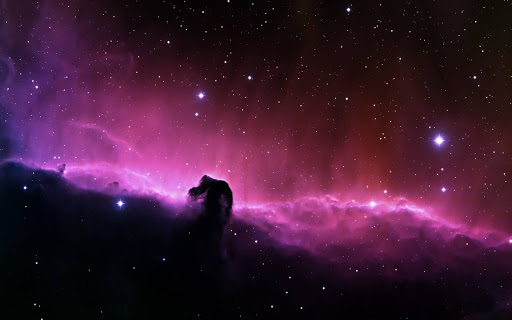
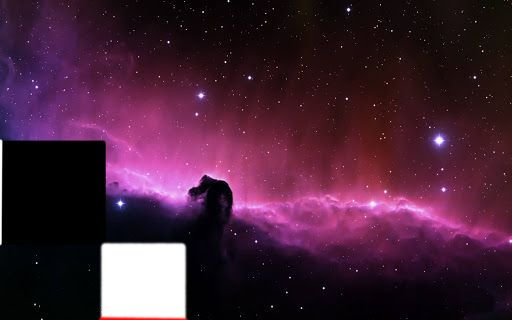
Обновил границы)

Changed region(s): [[0.0, 0.4375, 0.2188, 0.75], [0.1875, 0.75, 0.375, 1.0]]

diff --git a/main_file.py b/main_file.py
@@ -51,10 +51,10 @@ LAnim =[pygame.image.load('sp_humans/WalkL0000.png').convert_alpha(), pygame.ima
     pygame.image.load('sp_humans/WalkL0006.png').convert_alpha(), pygame.image.load('sp_humans/WalkL0007.png').convert_alpha()]
 
 
-backgr = Window_Dialog.GameSurface(1000, 700, 'backfon.jpg')
+backgr = Window_Dialog.GameSurface(2000, 2600, 'backfon.jpg')
 
 #Объект класса MainCharacter. Игровой персонаж
-Persona = GameCharacterModule.MainCharacter('ID', 'TYPE', mnList, 100, 100, mnPick, 0, STOP, 'name', 'hp', 'exp', 'lvl', 'damage', False, LAnim, RAnim)  
+Persona = GameCharacterModule.MainCharacter('ID', 'TYPE', mnList, 400, 300, mnPick, 0, STOP, 'name', 'hp', 'exp', 'lvl', 'damage', False, LAnim, RAnim)  
 
 print("Персонаж -> X:",Persona.getX()," Y: ", Persona.getY()) 
 #Объект класса NPC. Не игровой персонаж на фоне
@@ -66,12 +66,6 @@ window = Window_Dialog.GameWindow(Width, Height, backgr, sList)
 
 sc.blit(window.drawGameWind(),(0,0))
 
-#Ограничение по переходу линии
-def CrossTheLine():
-    if window.Back.getX() >= window.getX1() and motion == RIGHT:
-        print(window.Back.getX())
-    else:
-        window.Back.setX(window.Back.getX()+10)
 #Тест передвижения
 def moveNPC():
     #выбор направления
@@ -156,8 +150,12 @@ while 1:
     elif motion == LEFT and Persona.getXwin() <= window.getX1()-100:
         #Передвижение заднего фона в заданных рамках
         #Ограничение по полю
-        if window.Back.getX() >= window.getX1():
-            print(window.Back.getX())
+        #Я чет выводил "формулу" определения конца окна, хотя можно просто 0 написать... Мда... Не важно......
+        #НЕ ВАЖНО window.Back.getWidth()*(-1)+window.getX1()+Width
+        #Определение правой крайней рамки идет через схему (Ширина карты + первая граница передвижения + ширина окна) 
+        if window.Back.getX() >= 0:
+            pass
+##            print(window.Back.getX(),'||',window.Back.getWidth()*(-1)+window.getX1()+Width)
         else:
             window.Back.setX(window.Back.getX()+10)
         sc.blit(window.updateWindow(),(0,0))
@@ -175,9 +173,10 @@ while 1:
         #Передвижение заднего фона в заданных рамках
         #Определение правой крайней рамки идет через схему (Ширина карты + вторая граница передвижения + (ширина окна - вторая граница передвижения))         
         if window.Back.getX() <= window.Back.getWidth()*(-1)+window.getX2()+(Width - window.getX2()):
-            print(window.Back.getWidth()*(-1))
-            sList[0].setX(sList[0].getX()+10)
-            sList[0].setXwin(sList[0].getXwin()+10)
+            print('==>',window.Back.getX(),'||',window.Back.getWidth()*(-1)+window.getX2()+(Width - window.getX2()))
+##            print(window.Back.getWidth()*(-1)+window.getX2()+(Width - window.getX2()))
+##            sList[0].setX(sList[0].getX()+10)
+##            sList[0].setXwin(sList[0].getXwin()+10)
         else:
             window.Back.setX(window.Back.getX()-10)
         sc.blit(window.updateWindow(),(0,0))
@@ -192,7 +191,10 @@ while 1:
         
     elif motion == UP and Persona.getYwin() >= window.getY1()-150:
         #Передвижение заднего фона в заданных рамках
-        window.Back.setY(window.Back.getY()+10)
+        if window.Back.getY() >= 0 :
+            print(window.Back.getY(),'||',window.Back.getHeight())
+        else:
+            window.Back.setY(window.Back.getY()+10)            
         sc.blit(window.updateWindow(),(0,0))
         sc.blit(window.drawGameWind(),(0,0))
         
@@ -203,10 +205,15 @@ while 1:
 
         sList[0].setY(sList[0].getY()+10)
         sList[0].setYwin(sList[0].getYwin()+10)
+##        print(window.Back.getY(),"\_(T_T)_|",(window.Back.getHeight()-window.getY2())*(-1))
                 
     elif motion == DOWN and Persona.getYwin() <= window.getY2()-250:
         #Передвижение заднего фона в заданных рамках
-        window.Back.setY(window.Back.getY()-10)
+        
+        if window.Back.getY() <=(window.Back.getHeight()-window.getY2())*(-1)+(Height - window.getY2()):
+            print(window.Back.getY(),'||',(window.Back.getHeight()-window.getY2())*(-1)+(Height - window.getY2()))
+        else:
+            window.Back.setY(window.Back.getY()-10)
         sc.blit(window.updateWindow(),(0,0))
         sc.blit(window.drawGameWind(),(0,0))
     

diff --git a/Window_Dialog.py b/Window_Dialog.py
@@ -93,9 +93,9 @@ class GameWindow:
         self.isEnd = False
 
         #Границы передвижения, для ограничения передвижения по экрану 
-        self.__x1 = 0
+        self.__x1 = 100
         self.__x2 = 600
-        self.__y1 = 0
+        self.__y1 = 100
         self.__y2 = 600
 
         #Установка заднего фона
